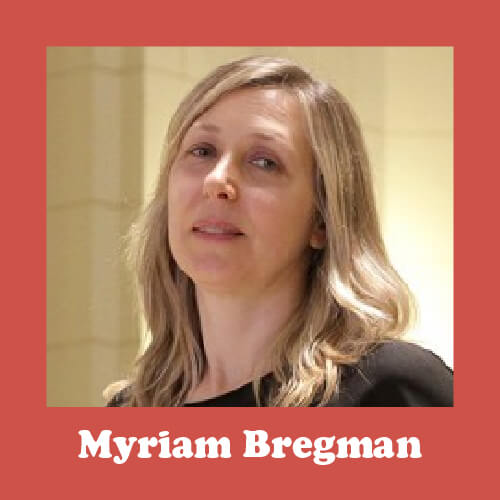
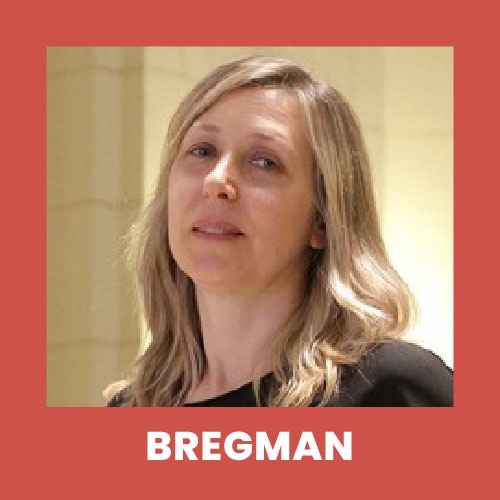
cambios: nombres candidatos, puntos, respuesta incorrecta

Changed region(s): [[0.15, 0.84, 0.84, 0.93]]

diff --git a/Juego.js b/Juego.js
@@ -1,6 +1,6 @@
 import React, { useEffect, useState } from "react";
 import { candidatos } from "./frases";
-import { Roboto, Alfa_Slab_One, Rubik, } from "next/font/google";
+import { Roboto, Alfa_Slab_One, Rubik } from "next/font/google";
 import Confetti from "react-confetti";
 import { Icon } from "@iconify/react";
 import "animate.css";
@@ -26,7 +26,7 @@ const JuegoPreguntasRespuestas = () => {
   const [puntos, setPuntos] = useState(0);
   const [gameOver, setGameOver] = useState(false);
   const [frasesSeleccionadas, setFrasesSeleccionadas] = useState([]);
-
+  const [respuestaCorrecta, setRespuestaCorrecta] = useState("");
   const [windowWidth, setWindowWidth] = useState(0);
   const [windowHeight, setWindowHeight] = useState(0);
 
@@ -40,7 +40,7 @@ const JuegoPreguntasRespuestas = () => {
   const maxMoves = 10;
 
   const obtenerFraseAleatoria = () => {
-    console.log("obtenerFraseAleatoria")
+    console.log("obtenerFraseAleatoria");
     const candidatoAleatorio =
       candidatos[Math.floor(Math.random() * candidatos.length)];
     let fraseAleatoria;
@@ -87,10 +87,17 @@ const JuegoPreguntasRespuestas = () => {
       setPuntos(puntos + 1);
     }
     setMostrarResultado(true);
+    // Mostrar la respuesta correcta en caso de respuesta incorrecta
+    if (!esCorrecto) {
+      setRespuestaCorrecta(candidatoCorrecto.nombre);
+    }
+
+    setMostrarResultado(true);
 
     // despues de 1s pasar a la siguiente frase
     setTimeout(() => {
       obtenerFraseAleatoria();
+      setRespuestaCorrecta("");
     }, 2000);
   };
 
@@ -161,7 +168,7 @@ const JuegoPreguntasRespuestas = () => {
           ))}
         </div>
       </div>
-   
+
       {mostrarResultado && resultadoRespuesta === "Respuesta correcta" && (
         <div className={`respuesta ${alfa.className}`}>
           <div className=" animate__animated animate__zoomInDown respuesta-correcta ">
@@ -176,8 +183,14 @@ const JuegoPreguntasRespuestas = () => {
             {" "}
             Respuesta incorrecta 👎
           </div>
+          {respuestaCorrecta !== "" && (
+            <div className={`solucion ${rubik.className}`}>
+              <p>La respuesta correcta es: {respuestaCorrecta}</p>
+            </div>
+          )}
         </div>
       )}
+
       {gameOver && (
         <>
           <Confetti width={windowWidth} height={windowHeight} />
@@ -185,7 +198,7 @@ const JuegoPreguntasRespuestas = () => {
             <div className="datos">
               <p>Fin del juego</p>
               <p>Sumaste {puntos} puntos</p>
-              
+
               <div className="share-container">
                 <p className={roboto.className}>Compartir resultado:</p>
                 <div className="share-icons">
@@ -203,7 +216,10 @@ const JuegoPreguntasRespuestas = () => {
                   </a>
                 </div>
               </div>
-              <button className={`btn ${roboto.className}`} onClick={handleReset}>
+              <button
+                className={`btn ${roboto.className}`}
+                onClick={handleReset}
+              >
                 Volver a jugar
               </button>
             </div>
@@ -211,7 +227,7 @@ const JuegoPreguntasRespuestas = () => {
         </>
       )}
       {!gameOver && (
-        <div className={` puntos ${roboto.className}`}>Puntos: {puntos}</div>
+        <div className={` puntos ${roboto.className}`}>Puntos: {puntos}/10</div>
       )}
     </>
   );

diff --git a/frases.js b/frases.js
@@ -7,7 +7,7 @@ export const candidatos = [
       '"La educación dejará de ser gratuita"',
       '"Voy a derogar la Ley del aborto"',
     ],
-    img: "/images/Milei.jpg",
+    img: "/images/milei.jpg",
   },
   {
     nombre: "Bullrich",
@@ -17,7 +17,7 @@ export const candidatos = [
       "“No puede ser que o decís que son 30.000 desaparecidos o sos un traidor a la patria”",
       '"Vamos a entrar a Rosario con las Fuerzas Armadas"',
     ],
-    img: "/images/Bullrich.jpg",
+    img: "/images/bullrich.jpg",
   },
   {
     nombre: "Larreta",
@@ -26,7 +26,7 @@ export const candidatos = [
       "“Tenemos que actualizar la legislación y terminar con la industria del juicio”",
       '“Vamos a buscar un déficit cero desde el primer año."',
     ],
-    img: "/images/Larreta.jpg",
+    img: "/images/larreta.jpg",
   },
   {
     nombre: "Massa",
@@ -36,7 +36,7 @@ export const candidatos = [
       "“Si mañana no se resolviese el conflicto, vamos a habilitar a las empresas para importar todos los neumáticos que necesiten”",
       '"Yo voy a barrer con los ñoquis de La Cámpora"',
     ],
-    img: "/images/Massa.jpg",
+    img: "/images/massa.jpg",
   },
   {
     nombre: "Grabois",
@@ -46,7 +46,7 @@ export const candidatos = [
       '"Ni en pedo vamos a votar a este cagador y vendepatria"',
       '"Que el Estado tenga el control sobre el litio, donde sin dejar de lado los inversores, el 51% es nuestro"',
     ],
-    img: "/images/Grabois.jpg",
+    img: "/images/grabois.jpg",
   },
   {
     nombre: "Solano",
@@ -57,7 +57,7 @@ export const candidatos = [
       "“La CGT y el gobierno se ríen de los trabajadores con un salario de $105.000”",
       '"Le mandé a Myriam Bregman una carta invitando a un debate público"',
     ],
-    img: "/images/Solano.jpg",
+    img: "/images/solano.jpg",
   },
   {
     nombre: "Bregman",
@@ -65,7 +65,7 @@ export const candidatos = [
       '"Un Poder Judicial que ha hecho un recorte de la realidad claramente ubicado en CFK, hay una proscripción política”',
       '"No me pienso mover de acá (Viva perón)"',
     ],
-    img: "/images/Bregman.jpg",
+    img: "/images/bregman.jpg",
   },
   {
     nombre: "Morales",
@@ -74,6 +74,6 @@ export const candidatos = [
       '“Esta reforma es progresista, genera derechos, es moderna"',
       '"Los cortes de ruta son un delito, no es una modalidad de protesta"',
     ],
-    img: "/images/Morales.jpg",
+    img: "/images/morales.jpg",
   },
 ];

diff --git a/styles/globals.css b/styles/globals.css
@@ -63,14 +63,16 @@ h2.pregunta {
 .respuesta-correcta {
   color: green;
   transform: rotate(-3deg);
-  text-shadow: -1px -1px 0 #000, -1px -1px 0 #000, 1px -1px 0 #000, -1px 1px 0 #000, 6px 4px 0 #000;
+  text-shadow: -1px -1px 0 #000, -1px -1px 0 #000, 1px -1px 0 #000,
+    -1px 1px 0 #000, 6px 4px 0 #000;
   animation-duration: 1;
 }
 
 .respuesta-incorrecta {
   color: red;
   transform: rotate(-3deg);
-  text-shadow: -1px -1px 0 #000, 1px -1px 0 #000, -1px 1px 0 #000, 6px 4px 0 #000;
+  text-shadow: -1px -1px 0 #000, 1px -1px 0 #000, -1px 1px 0 #000,
+    6px 4px 0 #000;
   animation-duration: 1;
 }
 
@@ -103,8 +105,8 @@ h2.pregunta {
   flex-direction: column;
   justify-content: center;
   text-align: center;
-  text-shadow: -1px -1px 0 #000, 1px -1px 0 #000, -1px 1px 0 #000, 6px 4px 0 #000;
-
+  text-shadow: -1px -1px 0 #000, 1px -1px 0 #000, -1px 1px 0 #000,
+    6px 4px 0 #000;
 }
 
 .game-over .datos p {
@@ -135,42 +137,52 @@ h2.pregunta {
   text-shadow: none;
 }
 
-.btn{
+.btn {
   border-radius: 10px;
-  margin:auto;
+  margin: auto;
+}
+.solucion {
+  color: #fff;
+  position: fixed;
+  width: 100%;
+  height: 100%;
+  display: flex;
+  justify-content: center;
+  align-items: end;
+
+  font-size: 18px;
 }
 
 @media (max-width: 600px) {
-  h3{
+  h3 {
     font-size: 17px;
     width: 100%;
   }
-  h2.pregunta{
+  h2.pregunta {
     font-size: 17px;
     line-height: 1;
   }
-  .candidatos{
+  .candidatos {
     grid-template-columns: repeat(2, 120px);
     width: 60%;
-    margin:auto;
-   
+    margin: auto;
   }
-  .puntos{
+  .puntos {
     position: inherit;
   }
-  .respuesta{
+  .respuesta {
     font-size: 20px;
   }
   .candidatos .candidato:hover {
-  transform: none;
+    transform: none;
   }
-  .game-over{
-  font-size:30px;
+  .game-over {
+    font-size: 30px;
   }
-  .share-container p{
+  .share-container p {
     font-size: 20px;
   }
-  .share-icons{
-    margin-top:15px;
+  .share-icons {
+    margin-top: 15px;
   }
 }
